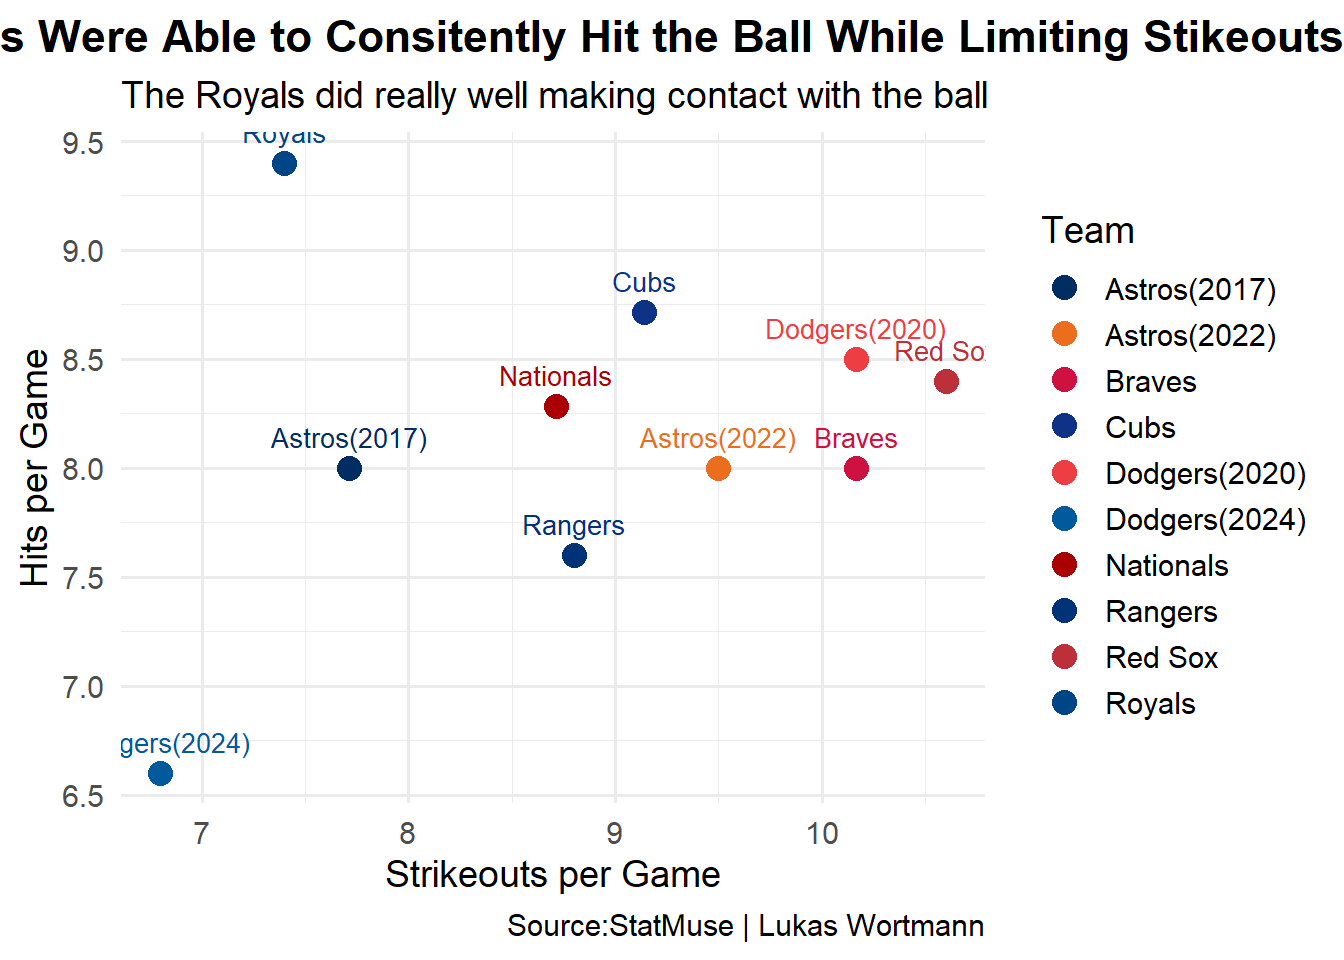
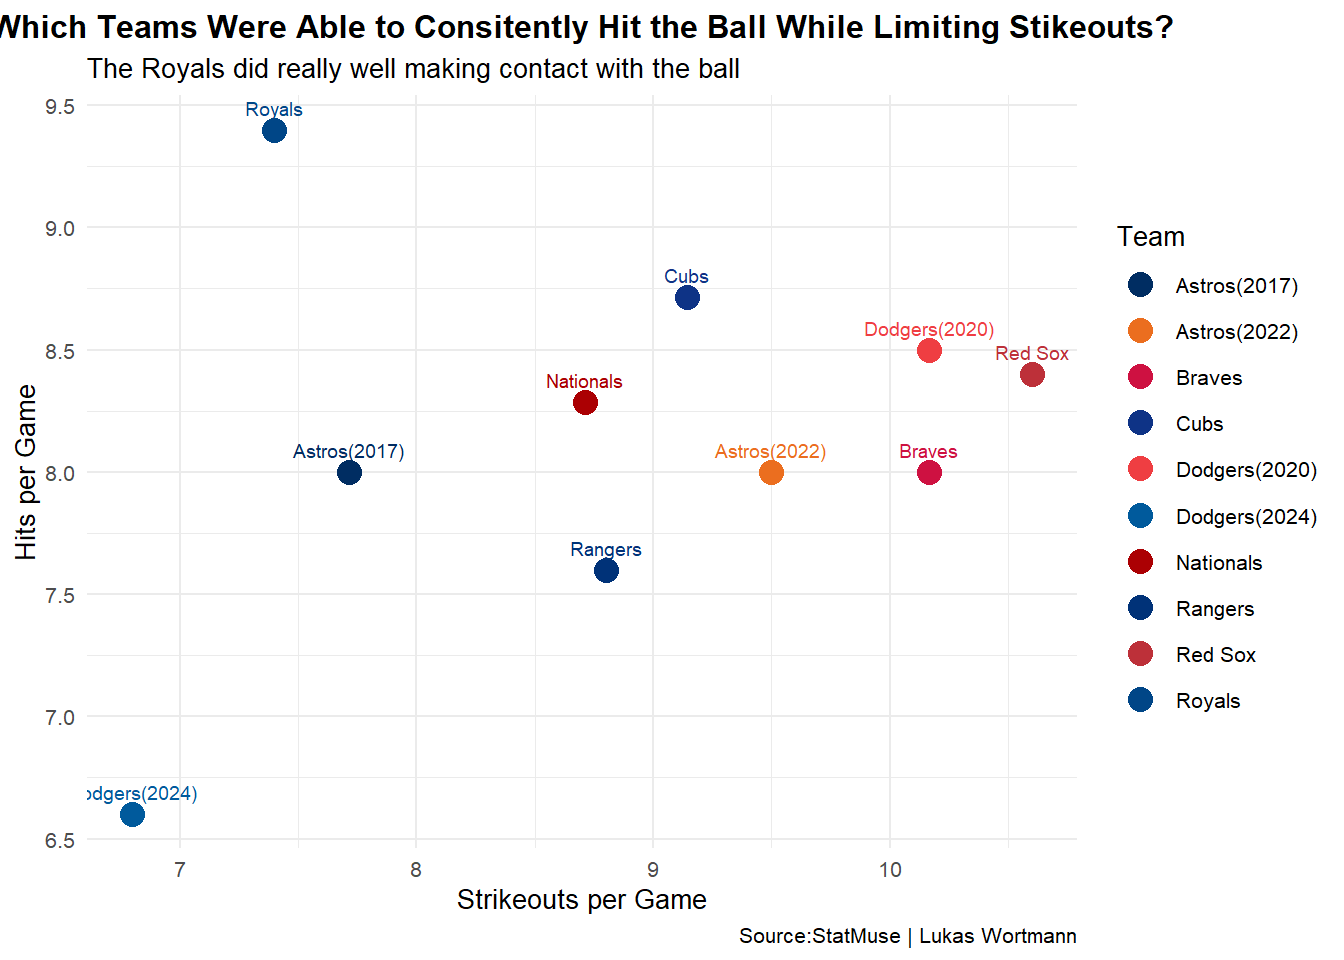
commit

diff --git a/posts/worldserieswinners/index.html b/posts/worldserieswinners/index.html
@@ -222,9 +222,9 @@ pre > code.sourceCode > span > a:first-child::before { text-decoration: underlin
 <span id="cb1-23"><a href="#cb1-23" aria-hidden="true" tabindex="-1"></a></span>
 <span id="cb1-24"><a href="#cb1-24" aria-hidden="true" tabindex="-1"></a><span class="fu">ggplot</span>(<span class="at">data =</span> WSstats, <span class="fu">aes</span>(<span class="at">x =</span> SOperGame, <span class="at">y =</span> HitsPerGame, <span class="at">color =</span> Team)) <span class="sc">+</span></span>
 <span id="cb1-25"><a href="#cb1-25" aria-hidden="true" tabindex="-1"></a>  <span class="fu">geom_point</span>(<span class="at">size =</span> <span class="dv">4</span>) <span class="sc">+</span></span>
-<span id="cb1-26"><a href="#cb1-26" aria-hidden="true" tabindex="-1"></a>  <span class="fu">geom_text</span>(<span class="fu">aes</span>(<span class="at">label =</span> Team), <span class="at">vjust =</span> <span class="sc">-</span><span class="dv">1</span>, <span class="at">size =</span> <span class="fl">3.5</span>, <span class="at">show.legend =</span> <span class="cn">FALSE</span>) <span class="sc">+</span></span>
+<span id="cb1-26"><a href="#cb1-26" aria-hidden="true" tabindex="-1"></a>  <span class="fu">geom_text</span>(<span class="fu">aes</span>(<span class="at">label =</span> Team), <span class="at">vjust =</span> <span class="sc">-</span><span class="dv">1</span>, <span class="at">size =</span> <span class="fl">2.5</span>, <span class="at">show.legend =</span> <span class="cn">FALSE</span>) <span class="sc">+</span></span>
 <span id="cb1-27"><a href="#cb1-27" aria-hidden="true" tabindex="-1"></a>  <span class="fu">scale_color_manual</span>(<span class="at">values =</span> team_colors) <span class="sc">+</span></span>
-<span id="cb1-28"><a href="#cb1-28" aria-hidden="true" tabindex="-1"></a>  <span class="fu">theme_minimal</span>(<span class="at">base_size =</span> <span class="dv">14</span>) <span class="sc">+</span></span>
+<span id="cb1-28"><a href="#cb1-28" aria-hidden="true" tabindex="-1"></a>  <span class="fu">theme_minimal</span>(<span class="at">base_size =</span> <span class="dv">10</span>) <span class="sc">+</span></span>
 <span id="cb1-29"><a href="#cb1-29" aria-hidden="true" tabindex="-1"></a>  <span class="fu">labs</span>(</span>
 <span id="cb1-30"><a href="#cb1-30" aria-hidden="true" tabindex="-1"></a>    <span class="at">title =</span> <span class="st">"Which Teams Were Able to Consitently Hit the Ball While Limiting Stikeouts?"</span>,</span>
 <span id="cb1-31"><a href="#cb1-31" aria-hidden="true" tabindex="-1"></a>    <span class="at">subtitle =</span> <span class="st">"The Royals did really well making contact with the ball"</span>,</span>
@@ -256,7 +256,7 @@ pre > code.sourceCode > span > a:first-child::before { text-decoration: underlin
 <span id="cb2-2"><a href="#cb2-2" aria-hidden="true" tabindex="-1"></a>  <span class="fu">geom_point</span>(<span class="at">alpha =</span> <span class="fl">0.8</span>) <span class="sc">+</span></span>
 <span id="cb2-3"><a href="#cb2-3" aria-hidden="true" tabindex="-1"></a>  <span class="fu">scale_size</span>(<span class="at">range =</span> <span class="fu">c</span>(<span class="dv">4</span>, <span class="dv">12</span>)) <span class="sc">+</span></span>
 <span id="cb2-4"><a href="#cb2-4" aria-hidden="true" tabindex="-1"></a>  <span class="fu">scale_color_manual</span>(<span class="at">values =</span> team_colors) <span class="sc">+</span></span>
-<span id="cb2-5"><a href="#cb2-5" aria-hidden="true" tabindex="-1"></a>  <span class="fu">theme_minimal</span>(<span class="at">base_size =</span> <span class="dv">14</span>) <span class="sc">+</span></span>
+<span id="cb2-5"><a href="#cb2-5" aria-hidden="true" tabindex="-1"></a>  <span class="fu">theme_minimal</span>(<span class="at">base_size =</span> <span class="dv">10</span>) <span class="sc">+</span></span>
 <span id="cb2-6"><a href="#cb2-6" aria-hidden="true" tabindex="-1"></a>  <span class="fu">labs</span>(</span>
 <span id="cb2-7"><a href="#cb2-7" aria-hidden="true" tabindex="-1"></a>    <span class="at">title =</span> <span class="st">"Which Teams Succesfully got on Base and Cahsed in on Runs?"</span>,</span>
 <span id="cb2-8"><a href="#cb2-8" aria-hidden="true" tabindex="-1"></a>    <span class="at">subtitle =</span> <span class="st">"The 2017 Astros scored a lot of runs while not having the best OBP"</span>,</span>
@@ -267,10 +267,10 @@ pre > code.sourceCode > span > a:first-child::before { text-decoration: underlin
 <span id="cb2-13"><a href="#cb2-13" aria-hidden="true" tabindex="-1"></a>    <span class="at">color =</span> <span class="st">"Team"</span></span>
 <span id="cb2-14"><a href="#cb2-14" aria-hidden="true" tabindex="-1"></a>  ) <span class="sc">+</span></span>
 <span id="cb2-15"><a href="#cb2-15" aria-hidden="true" tabindex="-1"></a>  <span class="fu">theme</span>(</span>
-<span id="cb2-16"><a href="#cb2-16" aria-hidden="true" tabindex="-1"></a>    <span class="at">plot.title =</span> <span class="fu">element_text</span>(<span class="at">face =</span> <span class="st">"bold"</span>, <span class="at">size =</span> <span class="dv">16</span>, <span class="at">hjust =</span> <span class="fl">0.5</span>),</span>
+<span id="cb2-16"><a href="#cb2-16" aria-hidden="true" tabindex="-1"></a>    <span class="at">plot.title =</span> <span class="fu">element_text</span>(<span class="at">face =</span> <span class="st">"bold"</span>, <span class="at">size =</span> <span class="dv">12</span>, <span class="at">hjust =</span> <span class="fl">0.5</span>),</span>
 <span id="cb2-17"><a href="#cb2-17" aria-hidden="true" tabindex="-1"></a>    <span class="at">axis.title =</span> <span class="fu">element_text</span>(<span class="at">size =</span> <span class="dv">14</span>),</span>
-<span id="cb2-18"><a href="#cb2-18" aria-hidden="true" tabindex="-1"></a>    <span class="at">legend.title =</span> <span class="fu">element_text</span>(<span class="at">size =</span> <span class="dv">12</span>),</span>
-<span id="cb2-19"><a href="#cb2-19" aria-hidden="true" tabindex="-1"></a>    <span class="at">legend.text =</span> <span class="fu">element_text</span>(<span class="at">size =</span> <span class="dv">10</span>),</span>
+<span id="cb2-18"><a href="#cb2-18" aria-hidden="true" tabindex="-1"></a>    <span class="at">legend.title =</span> <span class="fu">element_text</span>(<span class="at">size =</span> <span class="dv">8</span>),</span>
+<span id="cb2-19"><a href="#cb2-19" aria-hidden="true" tabindex="-1"></a>    <span class="at">legend.text =</span> <span class="fu">element_text</span>(<span class="at">size =</span> <span class="dv">8</span>),</span>
 <span id="cb2-20"><a href="#cb2-20" aria-hidden="true" tabindex="-1"></a>    <span class="at">legend.position =</span> <span class="st">"right"</span></span>
 <span id="cb2-21"><a href="#cb2-21" aria-hidden="true" tabindex="-1"></a>  )</span></code><button title="Copy to Clipboard" class="code-copy-button"><i class="bi"></i></button></pre></div>
 </details>
@@ -306,7 +306,7 @@ pre > code.sourceCode > span > a:first-child::before { text-decoration: underlin
 <span id="cb3-16"><a href="#cb3-16" aria-hidden="true" tabindex="-1"></a>    <span class="at">y =</span> <span class="cn">NULL</span></span>
 <span id="cb3-17"><a href="#cb3-17" aria-hidden="true" tabindex="-1"></a>  ) <span class="sc">+</span></span>
 <span id="cb3-18"><a href="#cb3-18" aria-hidden="true" tabindex="-1"></a>  <span class="fu">theme</span>(</span>
-<span id="cb3-19"><a href="#cb3-19" aria-hidden="true" tabindex="-1"></a>    <span class="at">plot.title =</span> <span class="fu">element_text</span>(<span class="at">face =</span> <span class="st">"bold"</span>, <span class="at">size =</span> <span class="dv">16</span>, <span class="at">hjust =</span> <span class="fl">0.5</span>),</span>
+<span id="cb3-19"><a href="#cb3-19" aria-hidden="true" tabindex="-1"></a>    <span class="at">plot.title =</span> <span class="fu">element_text</span>(<span class="at">face =</span> <span class="st">"bold"</span>, <span class="at">size =</span> <span class="dv">14</span>, <span class="at">hjust =</span> <span class="fl">0.5</span>),</span>
 <span id="cb3-20"><a href="#cb3-20" aria-hidden="true" tabindex="-1"></a>    <span class="at">plot.subtitle =</span> ggtext<span class="sc">::</span><span class="fu">element_markdown</span>(<span class="at">size =</span> <span class="dv">12</span>, <span class="at">hjust =</span> <span class="fl">0.5</span>),</span>
 <span id="cb3-21"><a href="#cb3-21" aria-hidden="true" tabindex="-1"></a>    <span class="at">axis.text.y =</span> <span class="fu">element_text</span>(<span class="at">size =</span> <span class="dv">12</span>),</span>
 <span id="cb3-22"><a href="#cb3-22" aria-hidden="true" tabindex="-1"></a>    <span class="at">axis.text.x =</span> <span class="fu">element_text</span>(<span class="at">size =</span> <span class="dv">11</span>),</span>

diff --git a/index.html b/index.html
@@ -205,7 +205,7 @@ window.Quarto = {
 
 <div class="quarto-listing quarto-listing-container-default" id="listing-listing">
 <div class="list quarto-listing-default">
-<div class="quarto-post image-right" data-index="0" data-categories="Baseball,MLB,World Seires,Champions,Rings" data-listing-date-sort="1746248400000" data-listing-file-modified-sort="1746392121730" data-listing-date-modified-sort="NaN" data-listing-reading-time-sort="6" data-listing-word-count-sort="1060">
+<div class="quarto-post image-right" data-index="0" data-categories="Baseball,MLB,World Seires,Champions,Rings" data-listing-date-sort="1746248400000" data-listing-file-modified-sort="1746392743270" data-listing-date-modified-sort="NaN" data-listing-reading-time-sort="6" data-listing-word-count-sort="1060">
 <div class="thumbnail">
 <p><a href="./posts/worldserieswinners/index.html" class="no-external"></a></p><a href="./posts/worldserieswinners/index.html" class="no-external">
 <p><img loading="lazy" src="./posts/worldserieswinners/image.png" class="thumbnail-image"></p>
